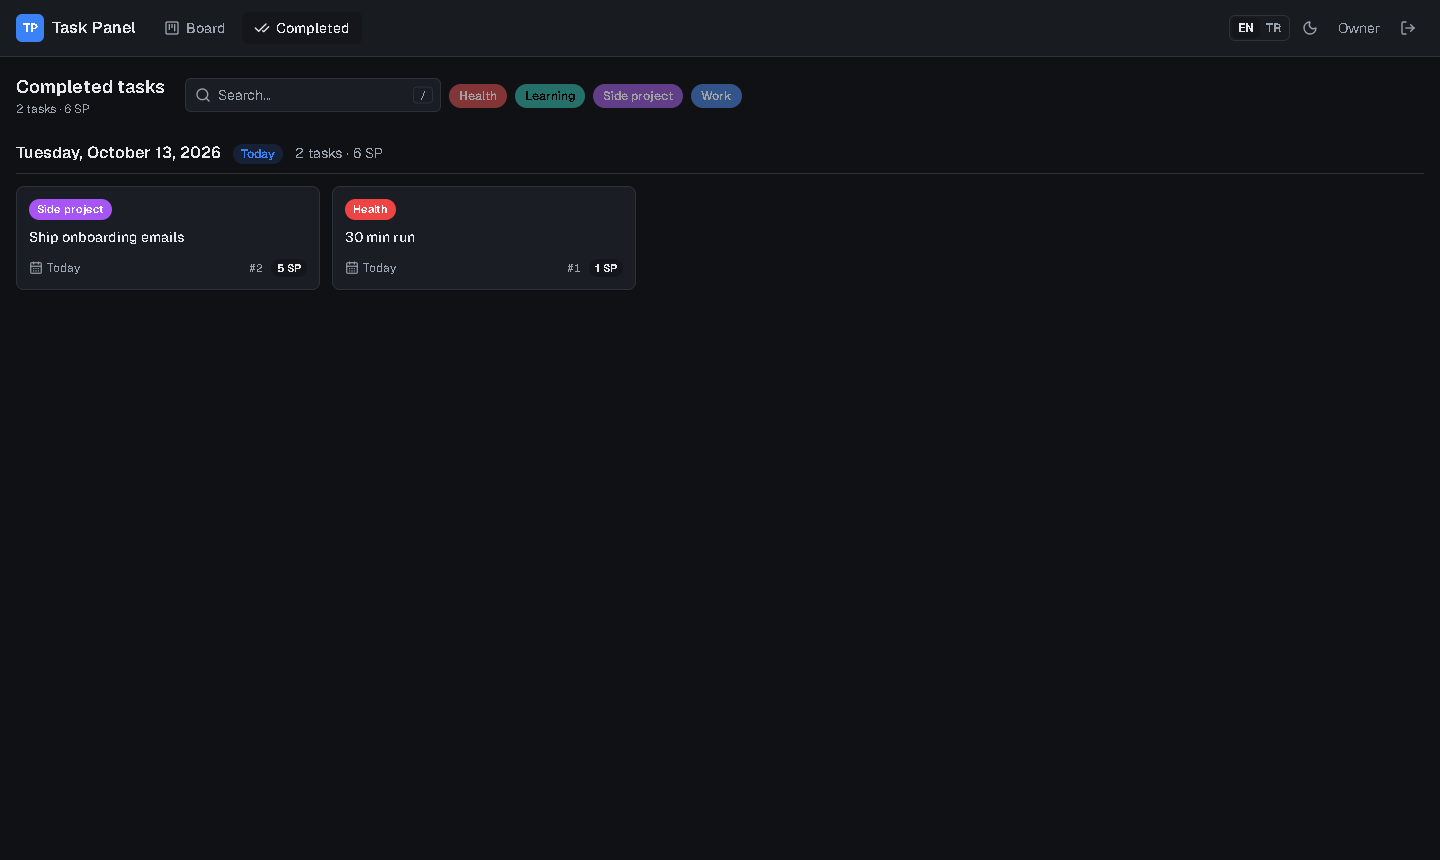
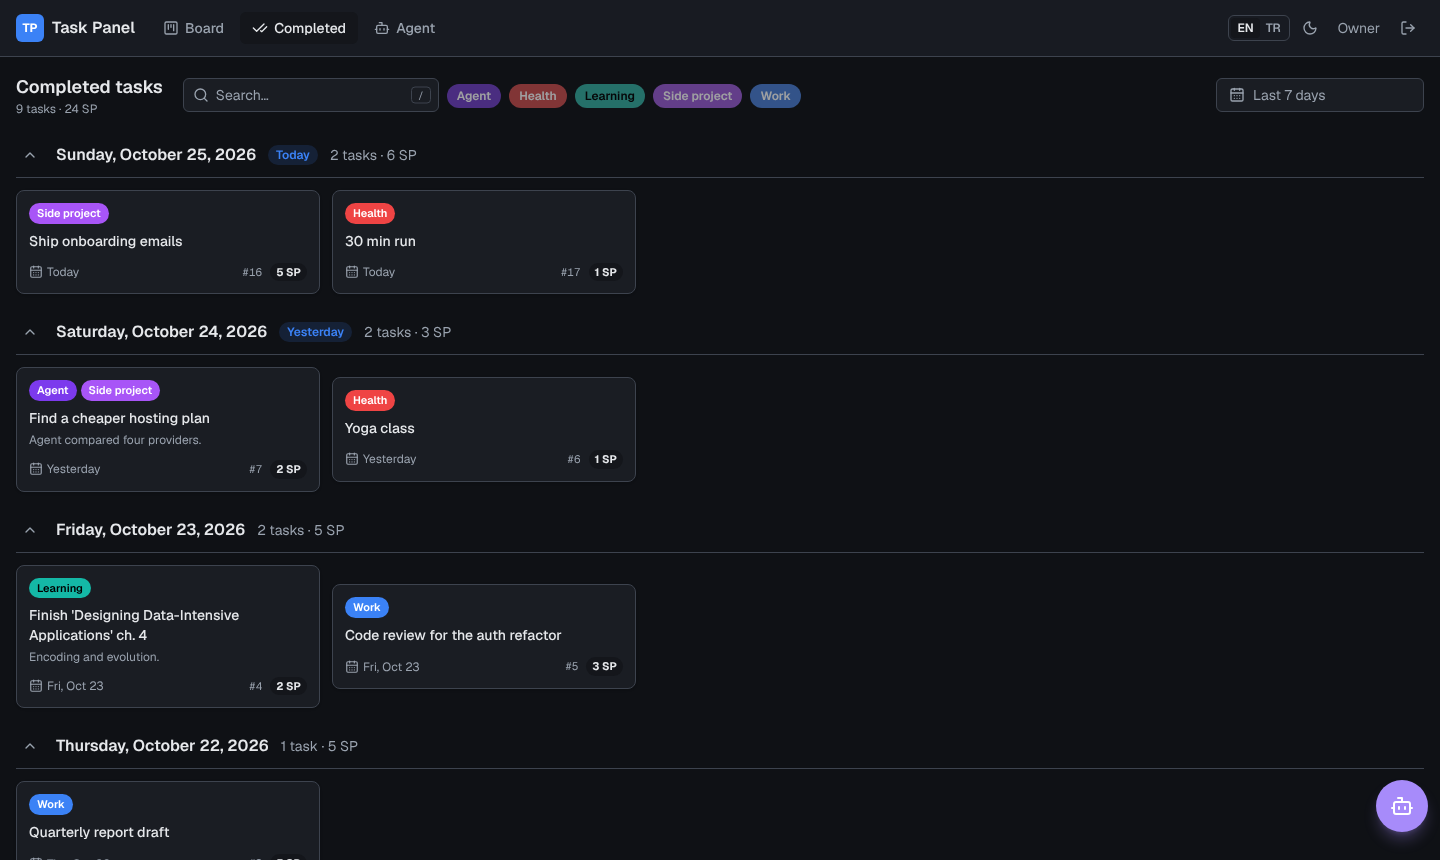
Refresh screenshots and add the agent page, chat and routines
The board shots now show the Routines column, the task dialog the rich
text editor and run panel. New: the Agent page, the agent chat window
and an open routine, added to both READMEs.

diff --git a/README.tr.md b/README.tr.md
@@ -13,6 +13,10 @@ Kendi sunucuna kurduğun, tek kullanıcılı bir kanban panosu. Kendi renklerinl
 | --- | --- | --- |
 | ![Koyu temada pano](docs/screenshots/board-dark.png) | ![Task penceresi](docs/screenshots/task-light.png) | ![Tamamlanan tasklar](docs/screenshots/completed-dark.png) |
 
+| Ajan sayfası | Ajanla sohbet | Bir rutin |
+| --- | --- | --- |
+| ![Ajan sayfası](docs/screenshots/agent-light.png) | ![Ajan sohbet penceresi](docs/screenshots/chat-dark.png) | ![Rutin](docs/screenshots/routine-light.png) |
+
 ## Özellikler
 
 - **Pano:** dört sabit kolon (Backlog, In Progress, Pending, Done). Kolonlar arasında ve kolon içinde sürükle-bırak; fare, dokunmatik ve klavyeyle çalışır.

diff --git a/README.md b/README.md
@@ -13,6 +13,10 @@ A self-hosted, single-user kanban board for your own tasks. Tags with your own c
 | --- | --- | --- |
 | ![Board in dark mode](docs/screenshots/board-dark.png) | ![Task dialog](docs/screenshots/task-light.png) | ![Completed tasks](docs/screenshots/completed-dark.png) |
 
+| Agent page | Chat with the agent | A routine |
+| --- | --- | --- |
+| ![Agent page](docs/screenshots/agent-light.png) | ![Agent chat window](docs/screenshots/chat-dark.png) | ![Routine](docs/screenshots/routine-light.png) |
+
 ## Features
 
 - **Board** with four fixed columns: Backlog, In Progress, Pending, Done. Drag and drop between and within columns (mouse, touch and keyboard).
